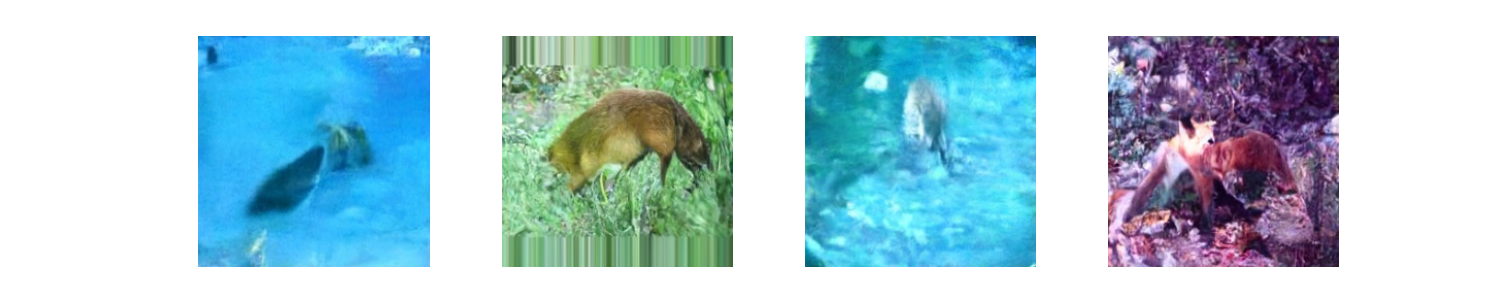
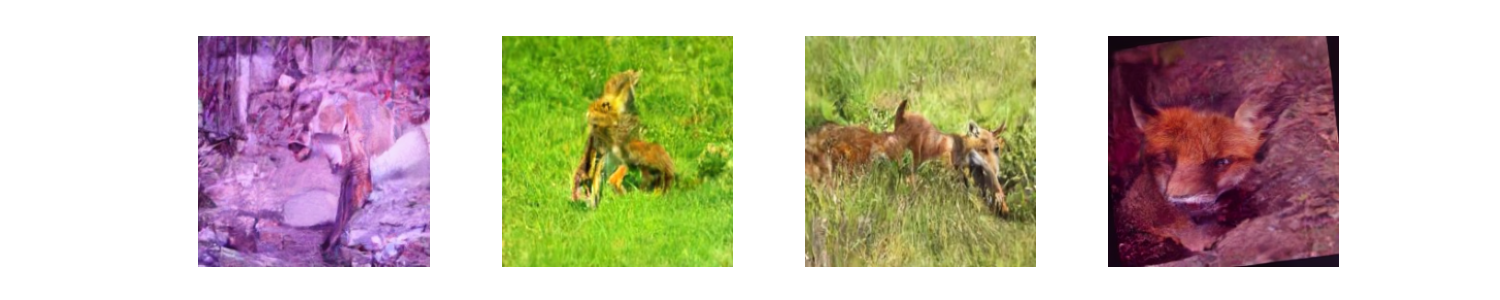
add new progressive training strategy

diff --git a/cloud/progressive_diffusion.py b/cloud/progressive_diffusion.py
@@ -1,0 +1,235 @@
+import torch
+import torch.nn.functional as F
+from torchvision import transforms
+from torch.utils.data import DataLoader, Dataset
+from diffusers import UNet2DModel, DDPMScheduler
+import matplotlib.pyplot as plt
+import logging
+import numpy as np
+from pathlib import Path
+from PIL import Image
+from tqdm import tqdm
+
+# ================= CONFIG =================
+class Config:
+    # Path configurations
+    DATA_DIR = Path("data/diffusion/fox")
+    WEIGHTS_DIR = Path("weights/diffusion")
+    HIST_DIR = Path("histories/diffusion")
+    LOG_DIR = Path("logs")
+    SAMPLE_DIR = Path("diffusion_samples/diffusion_samples.v2.4")
+    
+    # Progressive training parameters
+    PROGRESSIVE_STAGES = [
+        {'size': 64, 'epochs': 50, 'lr': 3e-4, 'batch_size': 64},
+        {'size': 128, 'epochs': 50, 'lr': 1e-4, 'batch_size': 32},
+        {'size': 224, 'epochs': 100, 'lr': 3e-5, 'batch_size': 16}
+    ]
+    
+    # Model parameters
+    NUM_TIMESTEPS = 1000
+    SAMPLING_STEPS = 250
+    PLOT_EVERY = 2
+    SEED = 42
+    GRAD_CLIP = 0.5
+    device = "cuda" if torch.cuda.is_available() else "cpu"
+
+# Initialize directories
+for p in [Config.WEIGHTS_DIR, Config.HIST_DIR, Config.LOG_DIR, Config.SAMPLE_DIR]:
+    p.mkdir(parents=True, exist_ok=True)
+
+# ================= MODEL =================
+def create_unet(input_size):
+    return UNet2DModel(
+        sample_size=input_size,
+        in_channels=3,
+        out_channels=3,
+        layers_per_block=2,
+        block_out_channels=(128, 256, 512, 1024),
+        down_block_types=(
+            "DownBlock2D",
+            "AttnDownBlock2D",
+            "AttnDownBlock2D",
+            "AttnDownBlock2D",
+        ),
+        up_block_types=(
+            "AttnUpBlock2D",
+            "AttnUpBlock2D",
+            "AttnUpBlock2D",
+            "UpBlock2D",
+        ),
+        attention_head_dim=8,
+        norm_num_groups=32
+    ).to(Config.device)
+
+def transfer_weights(src_model, dest_model, new_size):
+    """Transfer weights with spatial interpolation and layer matching"""
+    try:
+        # Get scale factor based on input sizes
+        scale_factor = new_size / src_model.sample_size
+        
+        # Transfer initial convolution with interpolation
+        with torch.no_grad():
+            dest_model.conv_in.weight.data = F.interpolate(
+                src_model.conv_in.weight.data,
+                scale_factor=scale_factor,
+                mode='bicubic',
+                align_corners=False
+            )
+            dest_model.conv_in.bias.data.copy_(src_model.conv_in.bias.data)
+
+        # Transfer compatible middle blocks
+        dest_model.mid_block.load_state_dict(src_model.mid_block.state_dict())
+
+        # Transfer down/up blocks with matching depth
+        for src_block, dest_block in zip(src_model.down_blocks, dest_model.down_blocks):
+            if isinstance(src_block, type(dest_block)):
+                dest_block.load_state_dict(src_block.state_dict())
+
+        for src_block, dest_block in zip(src_model.up_blocks, dest_model.up_blocks):
+            if isinstance(src_block, type(dest_block)):
+                dest_block.load_state_dict(src_block.state_dict())
+
+        # Initialize new attention layers
+        for name, param in dest_model.named_parameters():
+            if 'attn' in name and param not in src_model.state_dict():
+                if 'weight' in name:
+                    torch.nn.init.normal_(param, mean=0.0, std=0.02)
+                elif 'bias' in name:
+                    torch.nn.init.constant_(param, 0.0)
+
+    except Exception as e:
+        logging.error(f"Weight transfer failed: {str(e)}")
+        raise
+# ================= DATASET =================
+class ProgressiveDataset(Dataset):
+    def __init__(self, root_dir):
+        self.image_paths = list(Path(root_dir).glob("*.*"))
+        self.current_size = Config.PROGRESSIVE_STAGES[0]['size']
+        
+    def update_transform(self, new_size):
+        self.current_size = new_size
+        self.transform = transforms.Compose([
+            transforms.Resize(new_size),
+            transforms.RandomResizedCrop(new_size, scale=(0.8, 1.0)),
+            transforms.RandomHorizontalFlip(p=0.5),
+            transforms.ToTensor(),
+            transforms.Normalize([0.5]*3, [0.5]*3)
+        ])
+        
+    def __len__(self): 
+        return len(self.image_paths)
+    
+    def __getitem__(self, idx):
+        img = Image.open(self.image_paths[idx]).convert("RGB")
+        return self.transform(img), 0
+
+# ================= TRAINING UTILITIES =================
+def save_checkpoint(model, loss):
+    weight_path = Config.WEIGHTS_DIR / f"diffusion_v2.4.pth"
+    torch.save(model.state_dict(), weight_path)
+    
+    hist_path = Config.HIST_DIR / "diffusion_v2.4.npz"
+    history = np.load(hist_path)["losses"].tolist() if hist_path.exists() else []
+    history.append(loss)
+    np.savez(hist_path, losses=history)
+    logging.info(f"Saved checkpoint: {weight_path}")
+
+def generate_samples(model, scheduler, stage_size, epoch):
+    model.eval()
+    samples = torch.randn((4, 3, stage_size, stage_size), device=Config.device)
+    
+    scheduler.set_timesteps(Config.SAMPLING_STEPS)
+    with torch.inference_mode():
+        for t in scheduler.timesteps:
+            residual = model(samples, t).sample
+            samples = scheduler.step(residual, t, samples).prev_sample
+    
+    fig, axs = plt.subplots(1, 4, figsize=(15, 3))
+    for i, ax in enumerate(axs):
+        ax.imshow((samples[i].cpu().permute(1,2,0) * 0.5 + 0.5).clip(0,1))
+        ax.axis('off')
+    plt.savefig(Config.SAMPLE_DIR / f"stage_{stage_size}_epoch_{epoch}.png")
+    plt.close()
+
+# ================= PROGRESSIVE TRAINING =================
+def train_progressive():
+    logging.basicConfig(
+        level=logging.INFO,
+        format="%(asctime)s %(levelname)s: %(message)s",
+        handlers=[
+            logging.FileHandler(Config.LOG_DIR / "diffusion_v2.4.log", mode="a"),
+            logging.StreamHandler()
+        ]
+    )
+    
+    # Seed everything
+    torch.manual_seed(Config.SEED)
+    np.random.seed(Config.SEED)
+    if torch.cuda.is_available():
+        torch.cuda.manual_seed_all(Config.SEED)
+        
+    dataset = ProgressiveDataset(Config.DATA_DIR)
+    previous_model = None
+    
+    for stage_idx, stage in enumerate(Config.PROGRESSIVE_STAGES):
+        current_size = stage['size']
+        dataset.update_transform(current_size)
+        
+        # Create model with weight transfer
+        model = create_unet(current_size, previous_model)
+        previous_model = model  # Store for next stage
+        
+        dataloader = DataLoader(
+            dataset, 
+            batch_size=stage['batch_size'],
+            shuffle=True, 
+            num_workers=16
+        )
+        
+        optimizer = torch.optim.AdamW([
+            {'params': [p for n,p in model.named_parameters() if 'attn' not in n], 'lr': stage['lr']},
+            {'params': [p for n,p in model.named_parameters() if 'attn' in n], 'lr': stage['lr']*2}
+        ])
+        
+        scheduler = DDPMScheduler(
+            num_train_timesteps=Config.NUM_TIMESTEPS,
+            beta_schedule="squaredcos_cap_v2",
+            prediction_type="epsilon"
+        )
+        
+        scaler = torch.amp.GradScaler("cuda")
+        logging.info(f"\n=== Starting Stage {stage_idx+1} ({current_size}px) ===")
+        
+        for epoch in range(1, stage['epochs']+1):
+            model.train()
+            epoch_loss = 0.0
+            
+            for batch in tqdm(dataloader, desc=f"Stage {stage_idx+1} Epoch {epoch}"):
+                images = batch[0].to(Config.device)
+                noise = torch.randn_like(images)
+                timesteps = torch.randint(0, Config.NUM_TIMESTEPS, (images.size(0),), device=Config.device)
+                
+                with torch.amp.autocast("cuda"):
+                    noisy = scheduler.add_noise(images, noise, timesteps)
+                    pred = model(noisy, timesteps).sample
+                    loss = F.mse_loss(pred, noise)
+
+                optimizer.zero_grad()
+                scaler.scale(loss).backward()
+                torch.nn.utils.clip_grad_norm_(model.parameters(), Config.GRAD_CLIP)
+                scaler.step(optimizer)
+                scaler.update()
+                epoch_loss += loss.item()
+
+            avg_loss = epoch_loss / len(dataloader)
+            logging.info(f"Stage {stage_idx+1} Epoch {epoch}/{stage['epochs']} Loss: {avg_loss:.4f}")
+            
+            save_checkpoint(model, avg_loss)
+            if epoch % Config.PLOT_EVERY == 0:
+                generate_samples(model, scheduler, current_size, epoch)
+
+    logging.info("Progressive training completed!")
+
+if __name__ == "__main__":
+    train_progressive()

diff --git a/cloud/diffusion_training.py b/cloud/diffusion_training.py
@@ -37,7 +37,7 @@ class Config:
     
     # Training parameters (adjust via command line)
     IMAGE_SIZE = 224
-    BATCH_SIZE = 64
+    BATCH_SIZE = 4
     NUM_EPOCHS = 50
     LR = 1e-5
     NUM_TIMESTEPS = 1000
@@ -96,23 +96,18 @@ def create_unet():
         out_channels=3,
         layers_per_block=2,
         # Keep same channel structure
-        block_out_channels=(128, 128, 256, 256, 512, 512),
+        block_out_channels=(128, 256, 512, 1024),
         # Add attention to 3 more down blocks
         down_block_types=(
-            "AttnDownBlock2D",  # Changed from DownBlock2D
-            "AttnDownBlock2D",  # Changed from DownBlock2D
-            "DownBlock2D",
-            "AttnDownBlock2D",  # Changed from DownBlock2D
+            "DownBlock2D",  
             "AttnDownBlock2D",
-            "DownBlock2D",
+            "AttnDownBlock2D",
+            "AttnDownBlock2D",
         ),
-        # Add attention to 2 more up blocks
         up_block_types=(
-            "UpBlock2D",
             "AttnUpBlock2D",
-            "AttnUpBlock2D",  # Added attention
-            "UpBlock2D",
-            "AttnUpBlock2D",  # Added attention
+            "AttnUpBlock2D",  
+            "AttnUpBlock2D",  
             "UpBlock2D",
         ),
     ).to(Config.device)
@@ -251,7 +246,7 @@ def main(args):
     save_checkpoint = Config.WEIGHTS_DIR / "diffusion_v2.3.pth"
     # Initialize components
     dataset = DiffusionDataset(Config.DATA_DIR)
-    dataloader = DataLoader(dataset, batch_size=Config.BATCH_SIZE, shuffle=True, num_workers=12)
+    dataloader = DataLoader(dataset, batch_size=Config.BATCH_SIZE, shuffle=True, num_workers=20)
     model = create_unet()
     scheduler = DDPMScheduler(
         num_train_timesteps=Config.NUM_TIMESTEPS,
